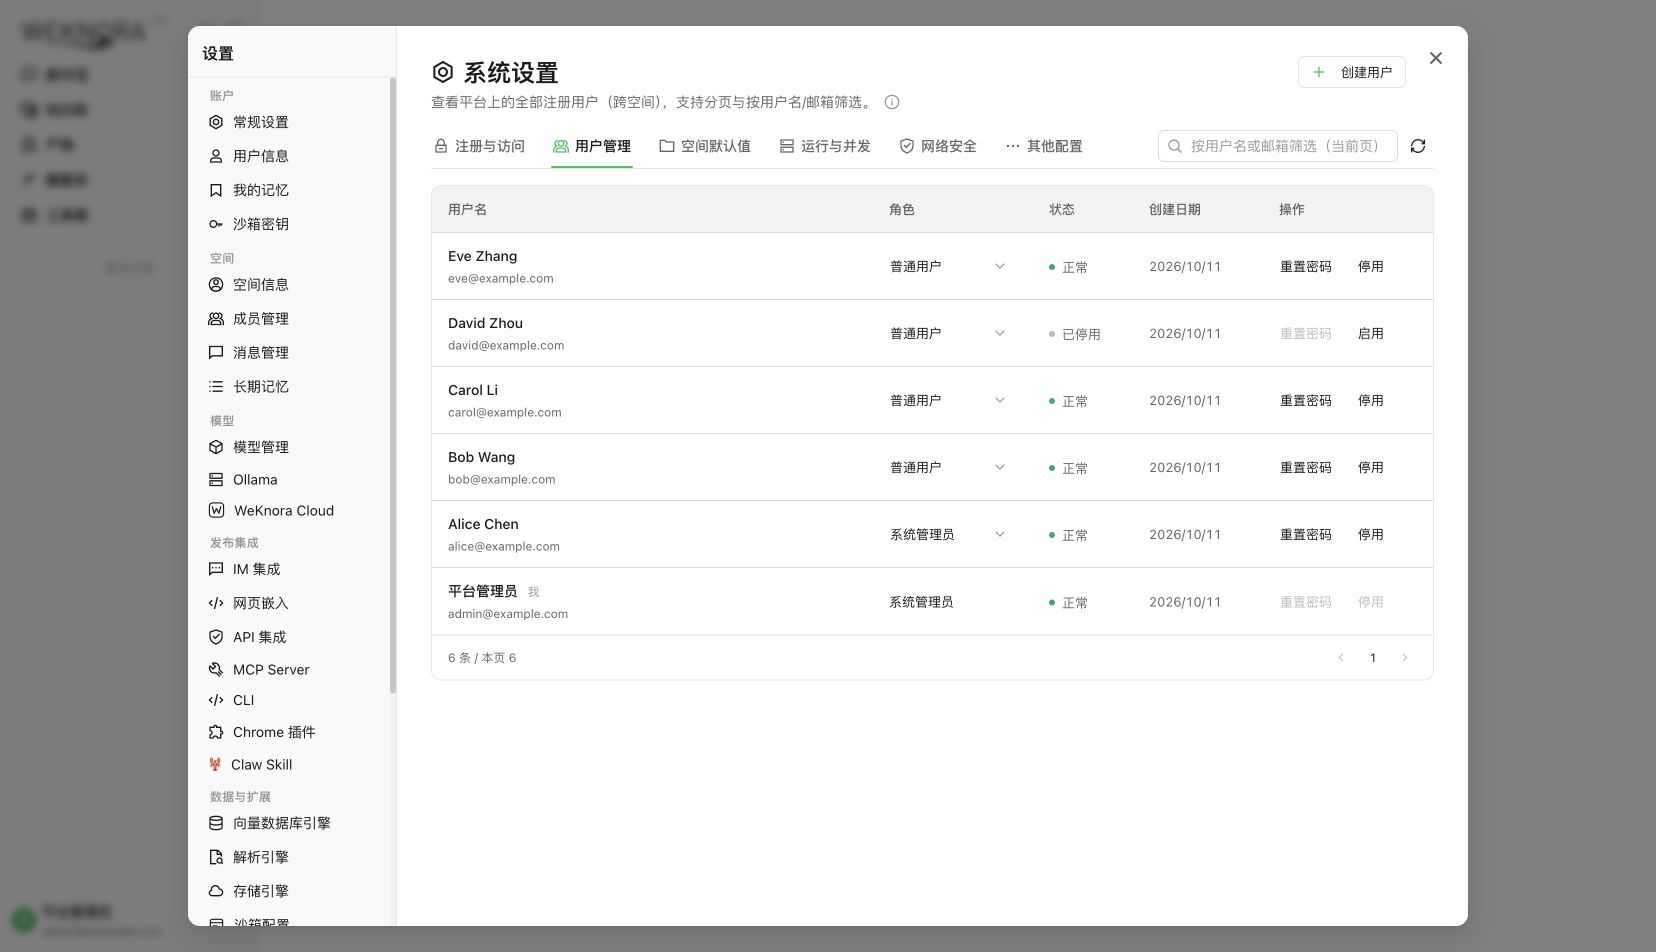
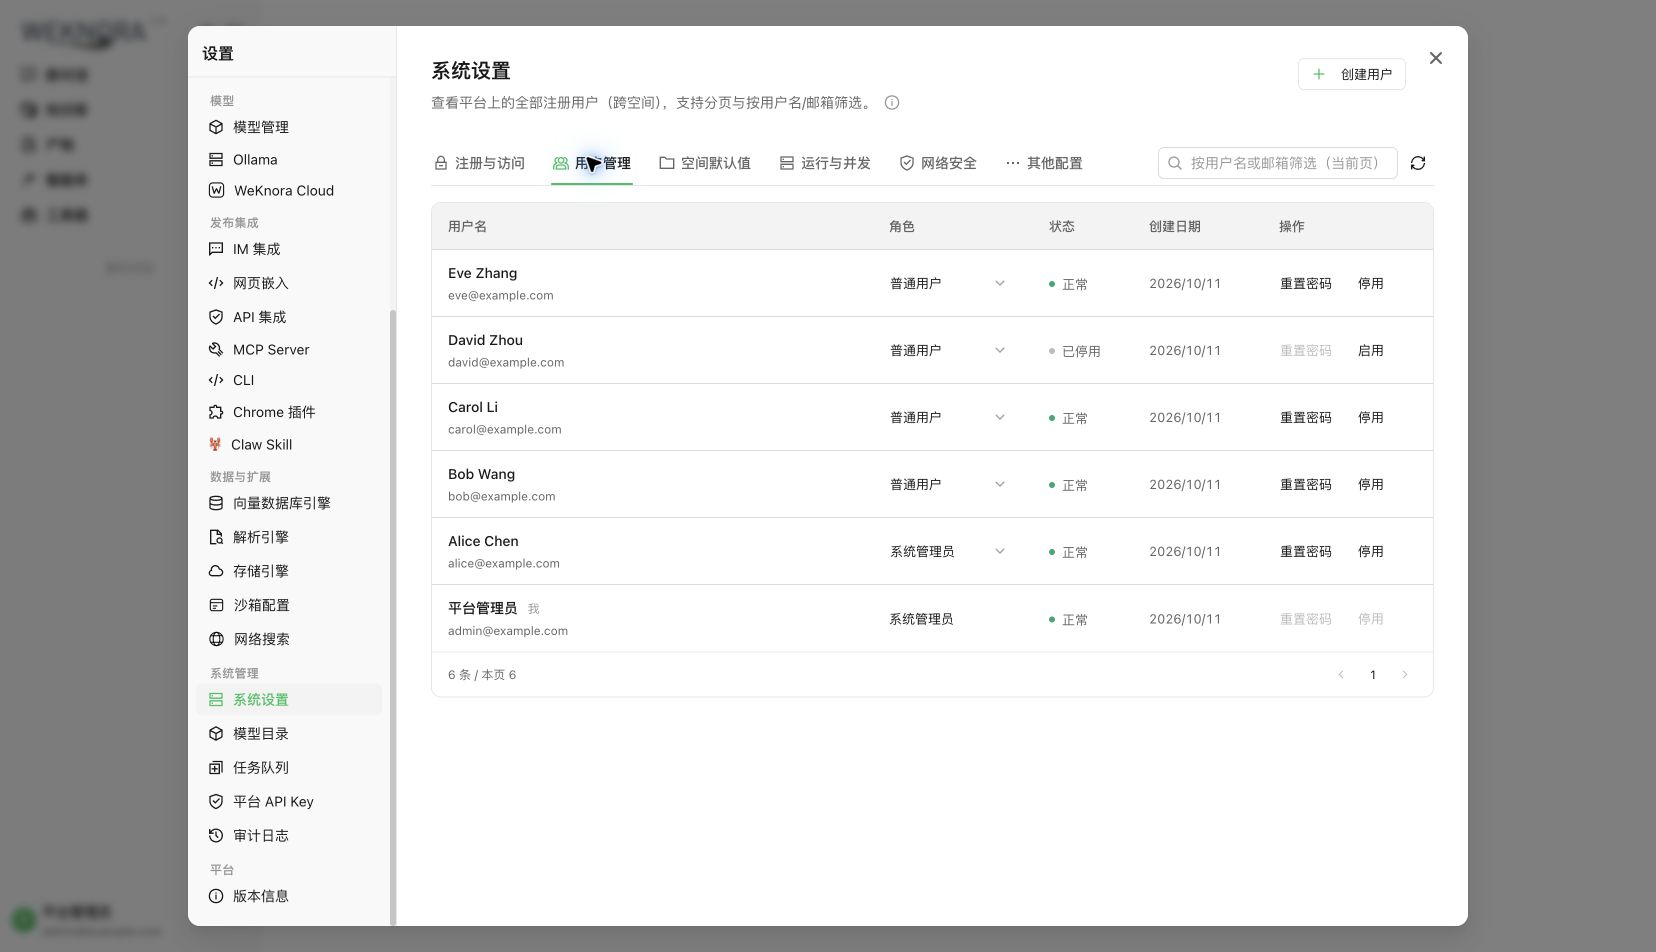
fix(system): preserve account status during ordinary user updates

diff --git a/frontend/src/views/system/SystemSettings.vue b/frontend/src/views/system/SystemSettings.vue
@@ -30,7 +30,7 @@
   <div class="system-settings">
     <div class="section-header">
       <div class="section-header__titlewrap">
-        <h2><t-icon name="setting" size="24px" />{{ t('system.globalSettings.title') }}</h2>
+        <h2>{{ t('system.globalSettings.title') }}</h2>
         <div id="system-users-actions" />
       </div>
       <div class="section-description">
@@ -913,23 +913,9 @@ onUnmounted(() => {
   container-type: inline-size;
 }
 
-// Match the current outer Toolbox header and tabbar within the settings shell.
+// Use the same title styling as the other settings pages.
 .section-header {
-  display: flex;
-  flex-direction: column;
-  gap: 4px;
-  margin-bottom: 12px;
-
-  h2 {
-    display: flex;
-    align-items: center;
-    gap: 8px;
-    margin: 0;
-    font-family: var(--app-font-family);
-    font-size: var(--app-text-4xl);
-    font-weight: 600;
-    line-height: 32px;
-  }
+  .settings-section-header();
 }
 
 .section-header__titlewrap {

diff --git a/internal/application/repository/user_status_test.go b/internal/application/repository/user_status_test.go
@@ -129,6 +129,57 @@ func TestSetUserActiveRollsBackWhenRevocationFails(t *testing.T) {
 	})
 }
 
+func TestUserUpdatePreservesAccountStatus(t *testing.T) {
+	for _, scope := range []struct {
+		name     string
+		tenantID uint64
+	}{
+		{name: "tenantless"},
+		{name: "with-tenant", tenantID: 1},
+	} {
+		t.Run(scope.name, func(t *testing.T) {
+			for _, change := range []struct {
+				name   string
+				active bool
+			}{
+				{name: "disable"},
+				{name: "enable", active: true},
+			} {
+				t.Run(change.name, func(t *testing.T) {
+					userStatusBackends(t, func(t *testing.T, db *gorm.DB) {
+						ctx := context.Background()
+						repo := NewUserRepository(db)
+						seedStatusUser(t, db, "user", false, !change.active)
+						if scope.tenantID != 0 {
+							require.NoError(t, db.Model(&types.User{}).Where("id = ?", "user").
+								UpdateColumn("tenant_id", scope.tenantID).Error)
+						}
+
+						// Pause an ordinary update after its read, then commit an admin
+						// status change before the stale user object is written back.
+						stale, err := repo.GetUserByID(ctx, "user")
+						require.NoError(t, err)
+						_, err = repo.SetUserActive(ctx, "user", "admin", change.active)
+						require.NoError(t, err)
+						instructions := "updated preference"
+						stale.Preferences.BrowserSearchInstructions = &instructions
+						stale.PasswordHash = "updated hash"
+						require.NoError(t, repo.UpdateUser(ctx, stale))
+
+						stored, err := repo.GetUserByID(ctx, "user")
+						require.NoError(t, err)
+						require.Equal(t, change.active, stored.IsActive,
+							"ordinary updates must preserve account status")
+						require.Equal(t, scope.tenantID, stored.TenantID)
+						require.Equal(t, "updated hash", stored.PasswordHash)
+						require.Equal(t, &instructions, stored.Preferences.BrowserSearchInstructions)
+					})
+				})
+			}
+		})
+	}
+}
+
 func TestConcurrentAdminChangesKeepOneActiveAdmin(t *testing.T) {
 	for _, mode := range []string{"disable-disable", "disable-revoke", "revoke-revoke"} {
 		t.Run(mode, func(t *testing.T) {

diff --git a/internal/application/repository/user.go b/internal/application/repository/user.go
@@ -121,14 +121,16 @@ func (r *userRepository) GetUserByTenantID(ctx context.Context, tenantID uint64)
 	return &user, nil
 }
 
-// UpdateUser updates a user
+// UpdateUser updates user data while preserving account status. Status changes
+// must go through SetUserActive so stale profile/password writes cannot undo
+// an administrator's enable/disable action.
 func (r *userRepository) UpdateUser(ctx context.Context, user *types.User) error {
 	if user != nil && user.TenantID == 0 {
 		return r.db.WithContext(ctx).Transaction(func(tx *gorm.DB) error {
-			// Preserve Save's all-fields behaviour while keeping the nullable
-			// tenant column out of the struct write, then explicitly store NULL.
+			// Keep status and the nullable tenant column out of the struct
+			// write, then explicitly store NULL for the tenant.
 			// Writing uint64(0) would violate the PostgreSQL tenant FK.
-			if err := tx.Omit("tenant_id").Save(user).Error; err != nil {
+			if err := tx.Omit("tenant_id", "is_active").Save(user).Error; err != nil {
 				return err
 			}
 			return tx.Model(&types.User{}).
@@ -136,7 +138,7 @@ func (r *userRepository) UpdateUser(ctx context.Context, user *types.User) error
 				UpdateColumn("tenant_id", nil).Error
 		})
 	}
-	return r.db.WithContext(ctx).Save(user).Error
+	return r.db.WithContext(ctx).Omit("is_active").Save(user).Error
 }
 
 // DeleteUser deletes a user

diff --git a/internal/types/interfaces/user.go b/internal/types/interfaces/user.go
@@ -31,7 +31,7 @@ type UserService interface {
 	GetUserByUsername(ctx context.Context, username string) (*types.User, error)
 	// GetUserByTenantID gets the first user (owner) of a tenant
 	GetUserByTenantID(ctx context.Context, tenantID uint64) (*types.User, error)
-	// UpdateUser updates user information
+	// UpdateUser updates user data without changing account status; use SetUserActive for that.
 	UpdateUser(ctx context.Context, user *types.User) error
 	// DeleteUser deletes a user
 	DeleteUser(ctx context.Context, id string) error
@@ -129,7 +129,7 @@ type UserRepository interface {
 	GetUserByUsername(ctx context.Context, username string) (*types.User, error)
 	// GetUserByTenantID gets the first user (owner) of a tenant
 	GetUserByTenantID(ctx context.Context, tenantID uint64) (*types.User, error)
-	// UpdateUser updates a user
+	// UpdateUser updates user data without changing account status; use SetUserActive for that.
 	UpdateUser(ctx context.Context, user *types.User) error
 	// SetUserActive atomically changes status and revokes sessions on disable,
 	// preserving at least one active system administrator.
